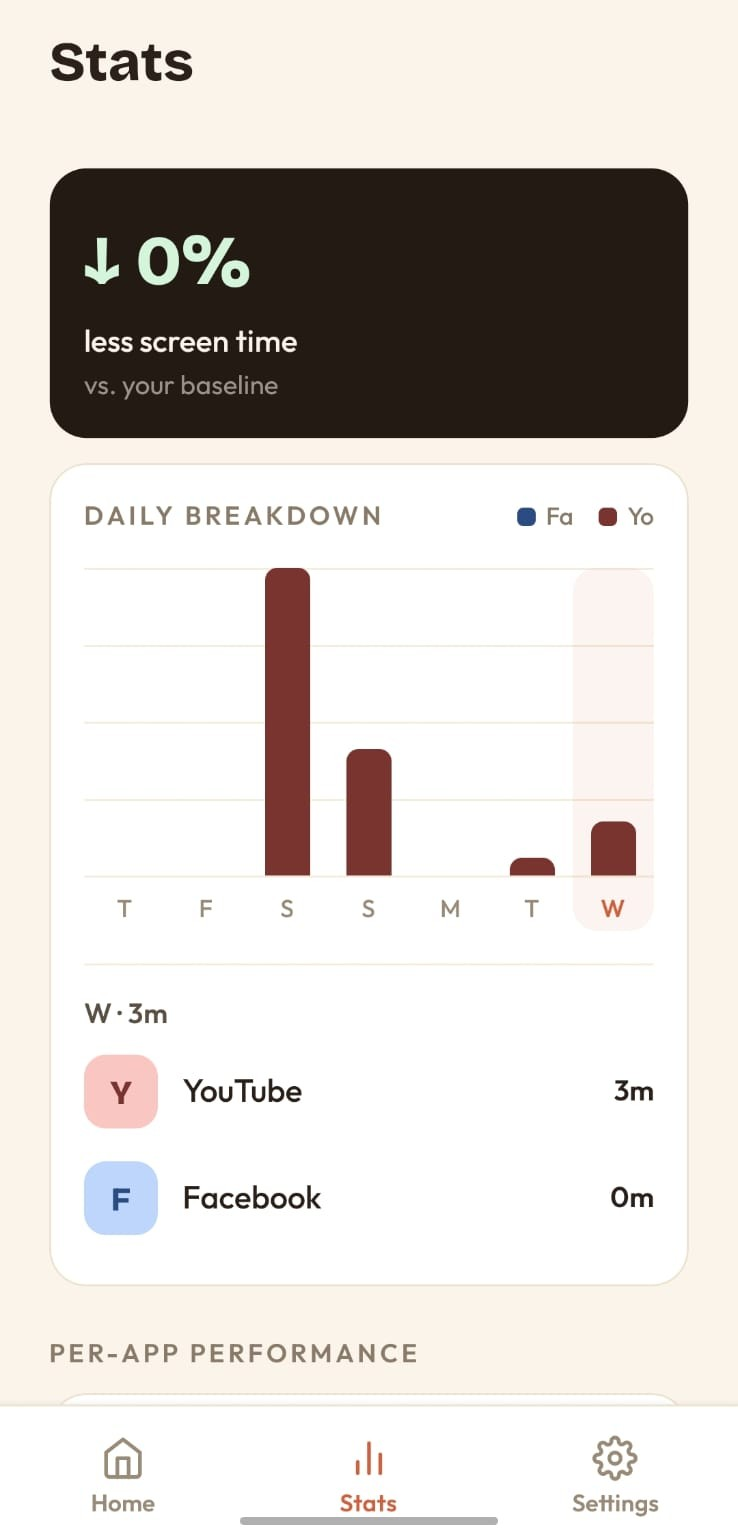
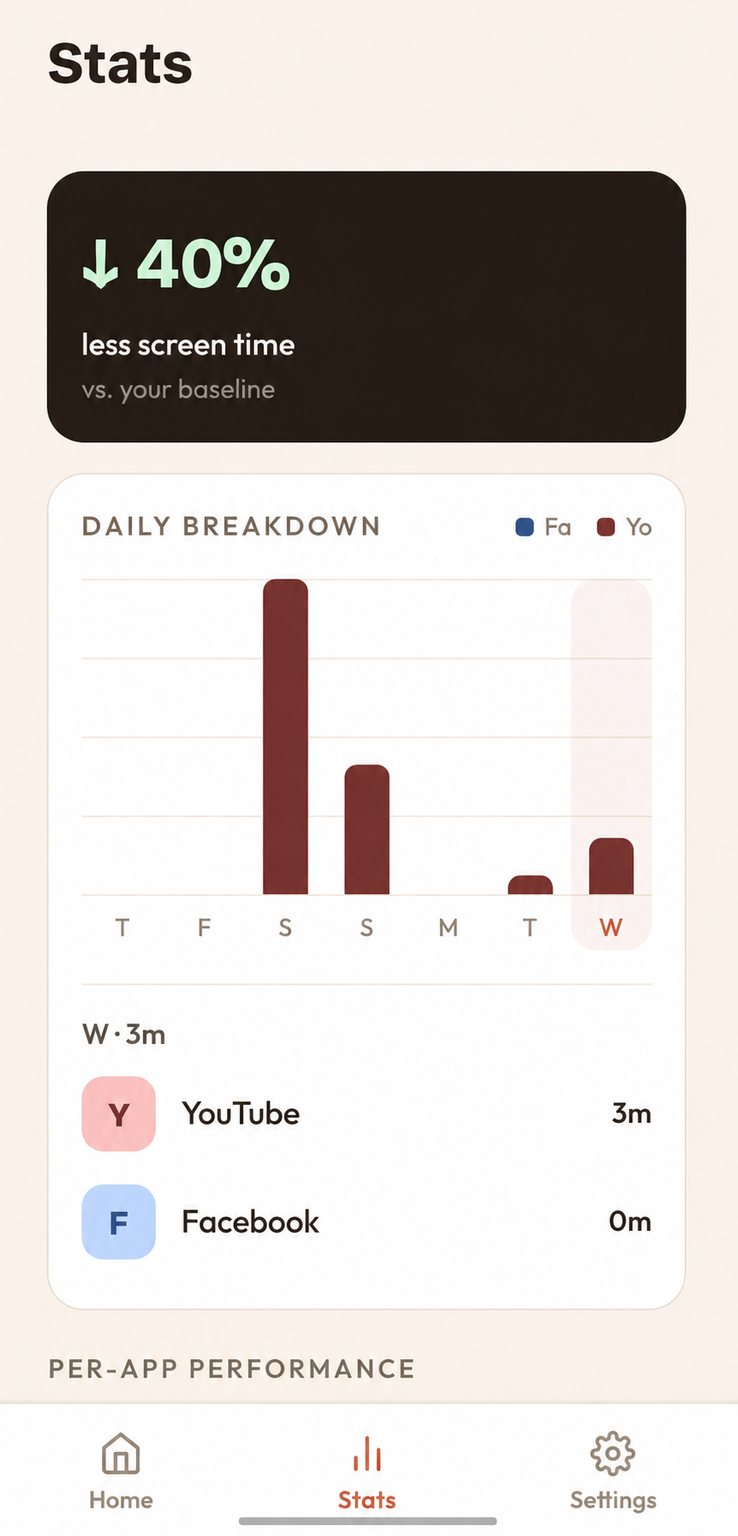
fix(web): content-height carousel track + new stats screenshot

diff --git a/web/app/landing.tsx b/web/app/landing.tsx
@@ -521,7 +521,7 @@ export default function Landing() {
             ref={howTrackRef}
             onScroll={onHowScroll}
             className="hide-sb"
-            style={{ display: "flex", overflowX: "auto", scrollSnapType: "x mandatory", WebkitOverflowScrolling: "touch", height: "min(600px, 78vh)" }}
+            style={{ display: "flex", overflowX: "auto", scrollSnapType: "x mandatory", WebkitOverflowScrolling: "touch", alignItems: "stretch" }}
           >
             {STEPS.map((s, i) => (
               <div key={s.num} style={{ flex: "0 0 100%", scrollSnapAlign: "center", padding: "0 22px", boxSizing: "border-box", display: "flex" }}>